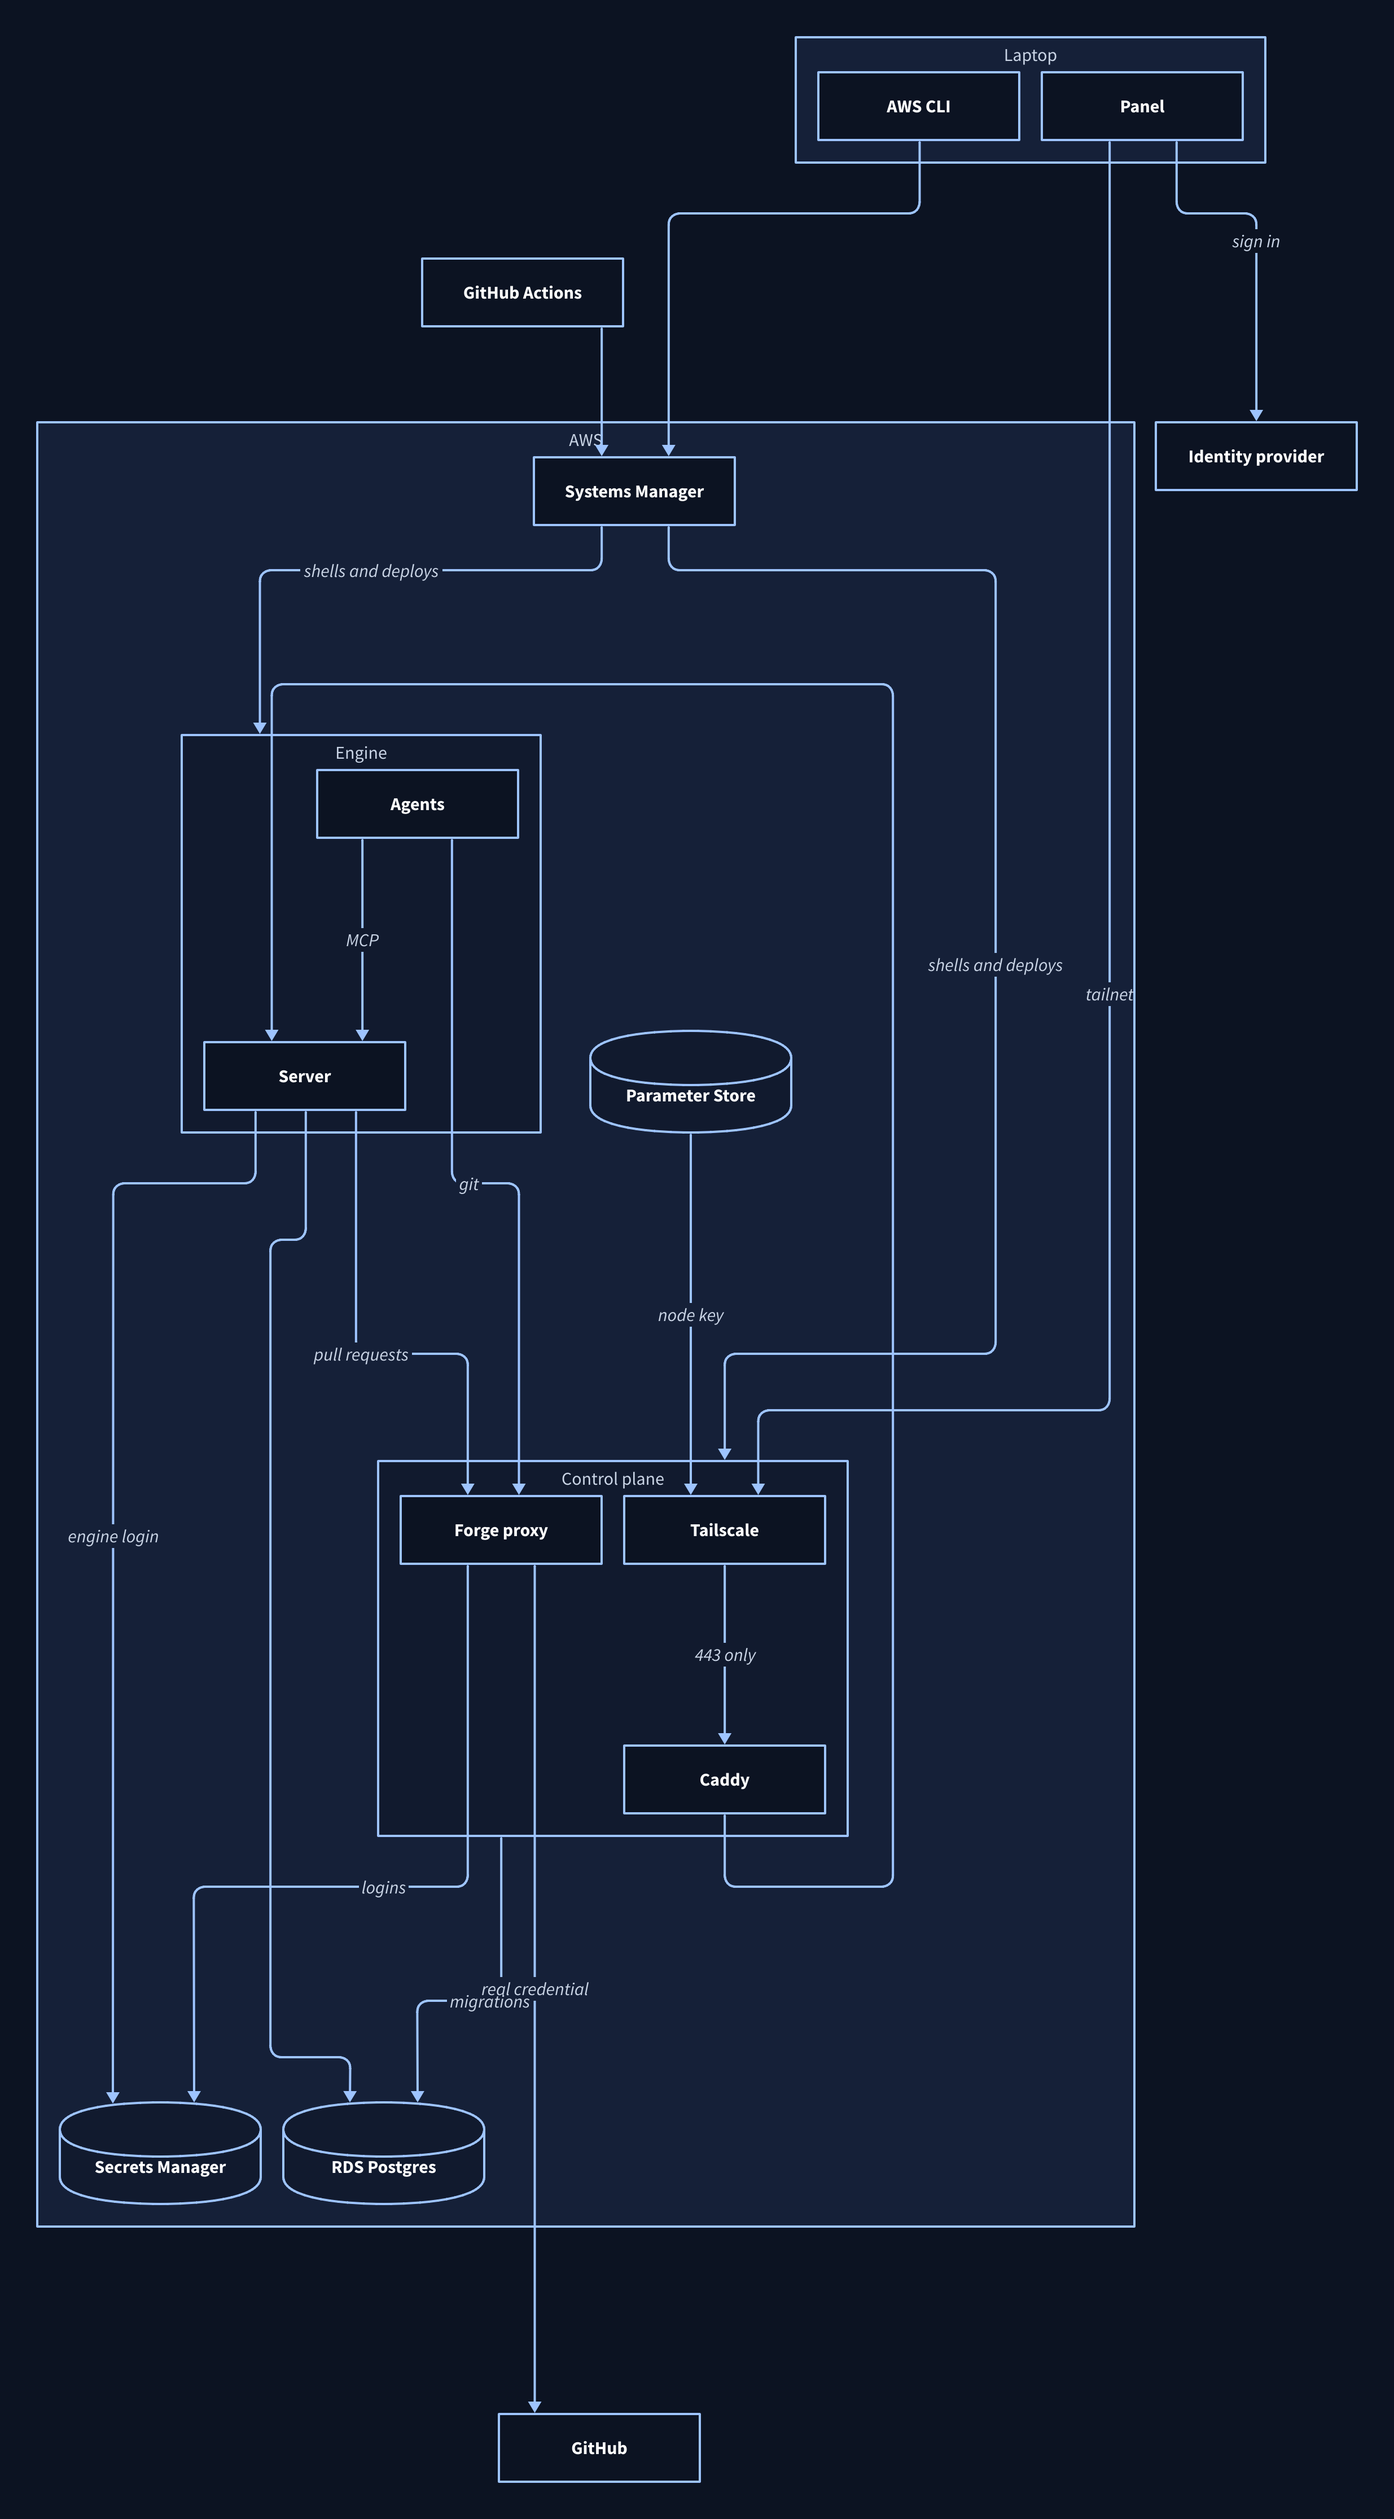
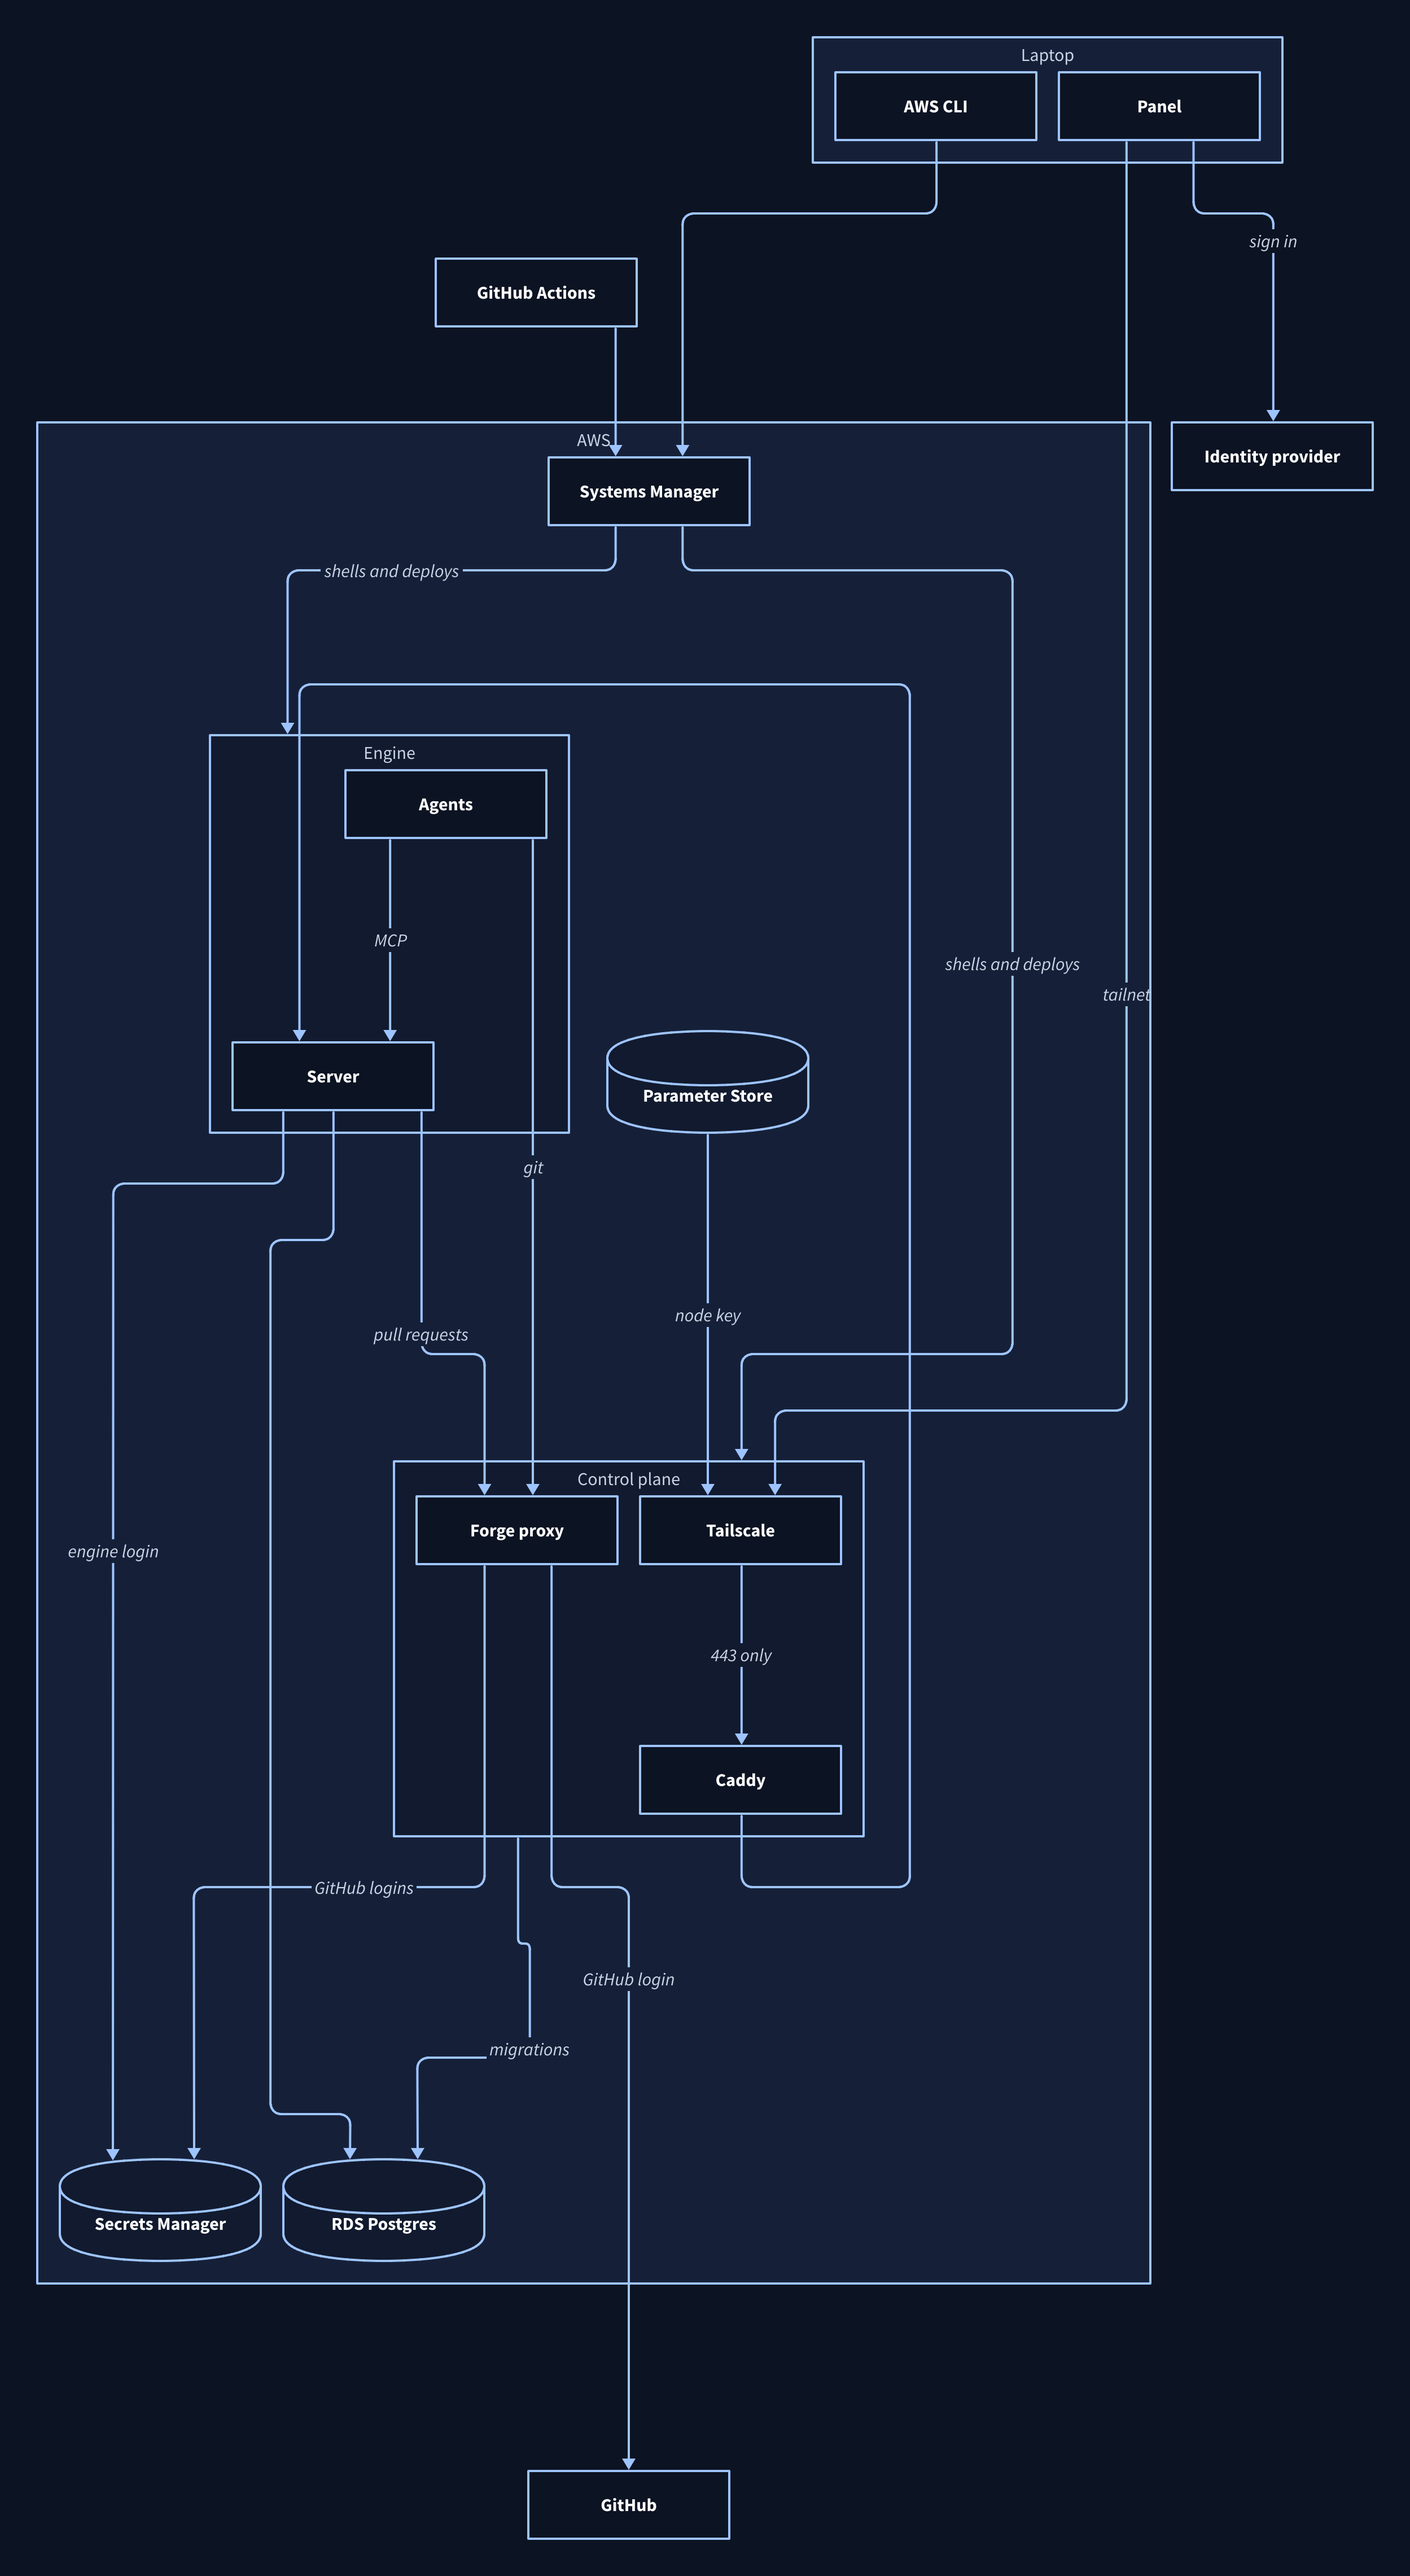
docs: use the glossary's names for logins, the forge proxy and stopping an engine

diff --git a/docs/style-guide.md b/docs/style-guide.md
@@ -134,7 +134,7 @@ forge: The service a repository's pull requests live on, such as GitHub or GitLa
 
 pull request: A request to merge a branch on a forge. It includes GitLab merge requests. Not "PR" or "MR".
 
-forge proxy: The path git and `gh` on a remote engine take to the forge. The control plane adds the person's GitHub login.
+forge proxy: The path git, `gh` and the server's pull request calls on a remote engine take to GitHub. The control plane adds the person's GitHub login.
 
 ### Engines
 
